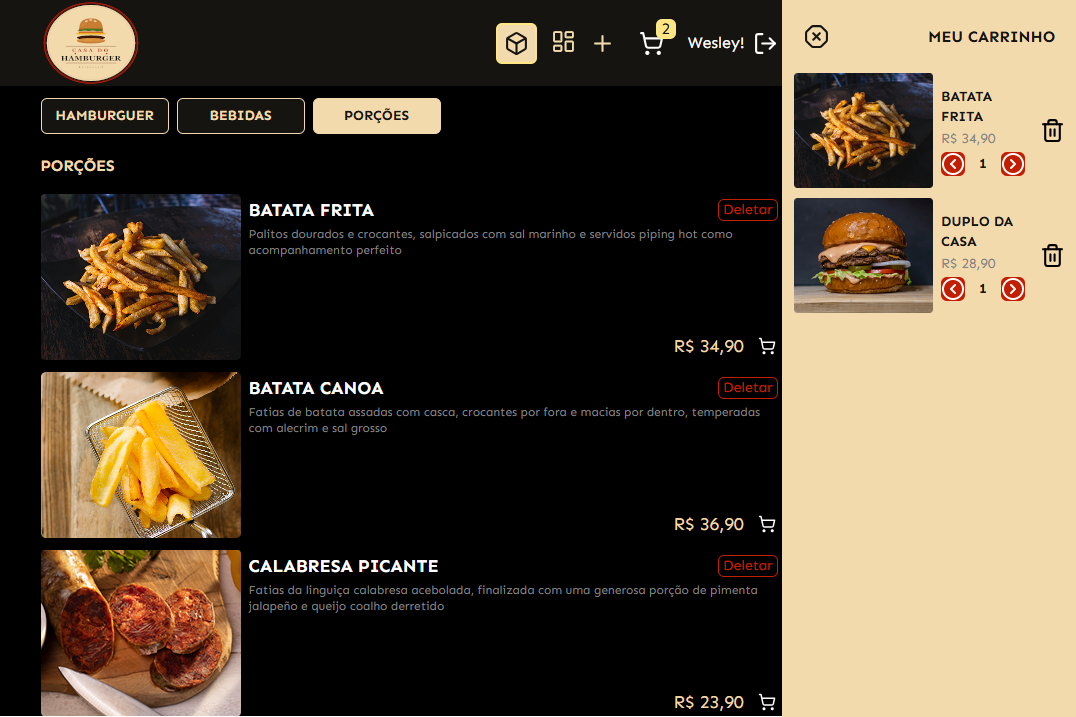
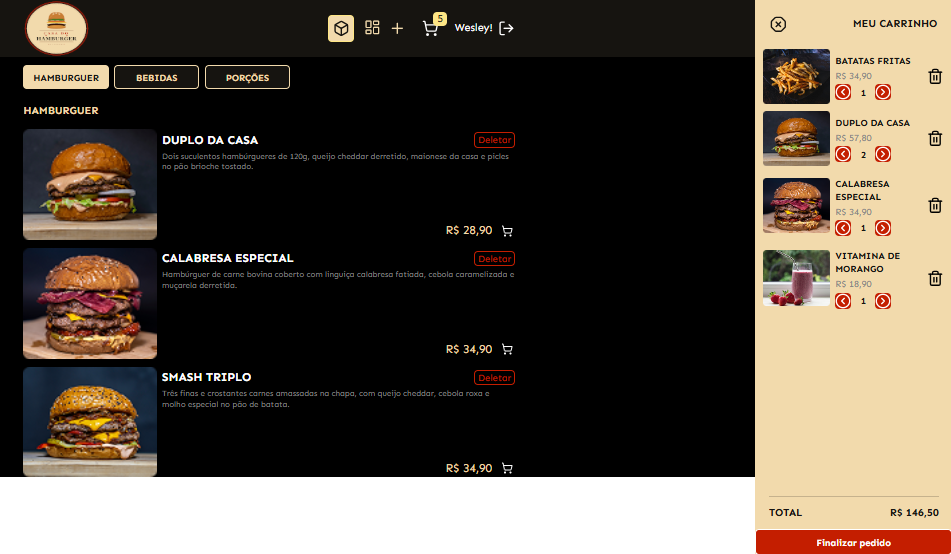
feat(docs): update README with the new project's screenshots and update their descriptions

diff --git a/README.md b/README.md
@@ -404,24 +404,34 @@ A aplicação estará disponível em `http://localhost:5173`
 
 Algumas imagens do projeto aqui para documentar telas importantes: formulário de login, registro e home.
 
+1 - Formulário de login
 ![Login screenshot](front-end/public/screenshots/logIn-screen.png)
 
+2 - Formulário de registro
 ![Register screenshot](front-end/public/screenshots/signUp-screen.png)
 
+3 - Formulário de registro com gerenciador de senha forte em um popover
 ![Register screenshot](front-end/public/screenshots/sigUp-fomr(popover).png)
 
+4 - Display de um a senha fraca através de um password strenght meter com uma regra aplicada
 ![Register screenshot](front-end/public/screenshots/password-strenght-meter(weak-pass).png)
 
+5 - Display de um a senha média através de um password strenght meter com uma regra aplicada
 ![Register screenshot](front-end/public/screenshots/password-strenght(medium-pass).png)
 
+6 - Display de um a senha forte através de um password strenght meter com uma regra aplicada
 ![Register screenshot](front-end/public/screenshots/password-strenght-meter(strong-pass).png)
 
+7 - Homepage sem estar logado
 ![Home logout screenshot](front-end/public/screenshots/logout-homepage.png)
 
+8 - Homepage logado com role de admin
 ![Home login e admin role screenshot](front-end/public/screenshots/login-homepage.png)
 
+9 - Carrinho de produtos preenchidos com 5 produtos, com soma por unidades e soma total
 ![Home login com admin role e Cart screenshot](front-end/public/screenshots/login-homepage-with-admin-role_cart.png)
 
+10 - Gerenciamento de pedidos somente para admins
 ![Home login com admin role e Cart screenshot](front-end/public/screenshots/cardPedidos.png)
 
 ### Nomeação